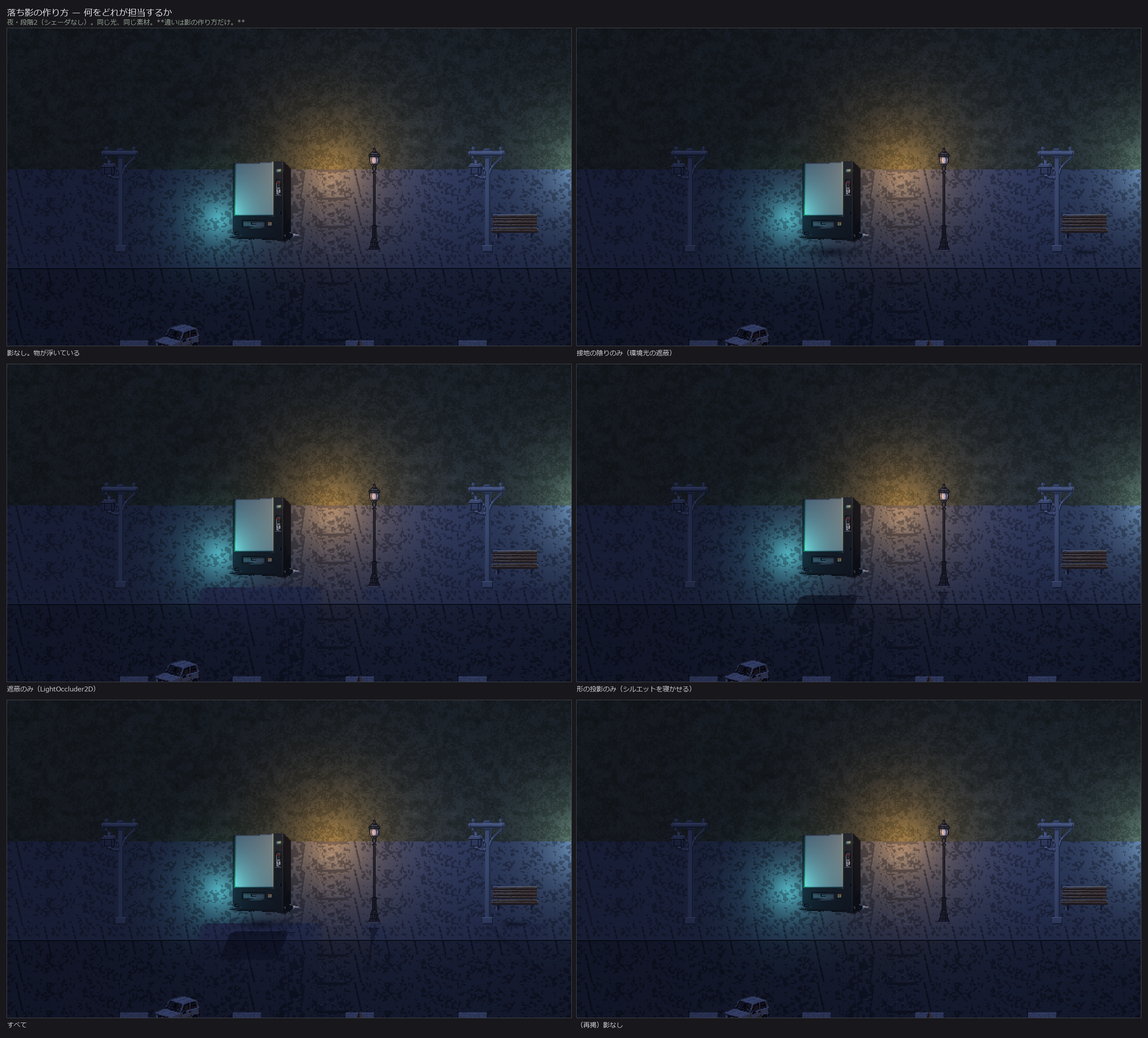
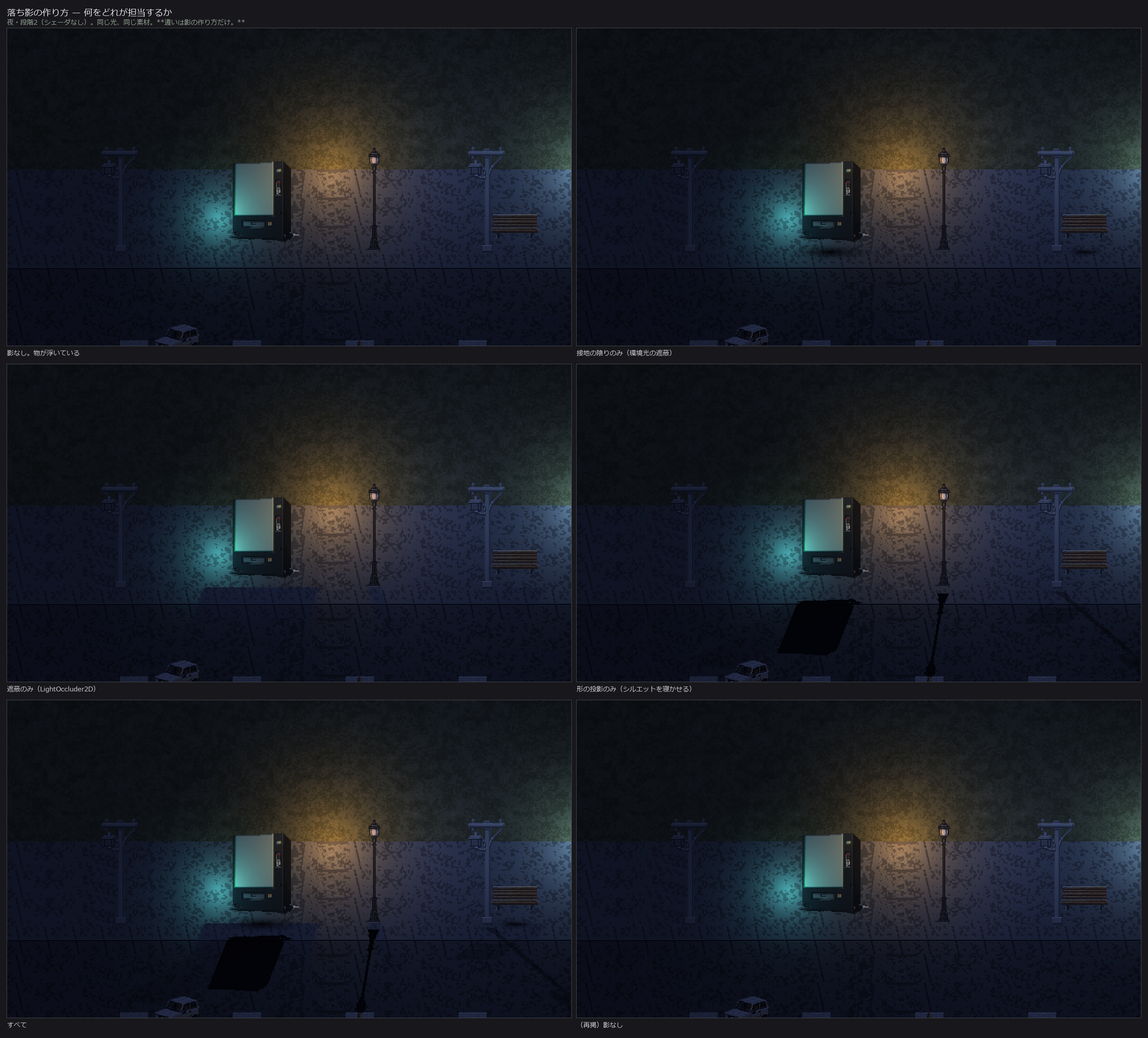
feat(iwato): 影の濃さを参考画像の実測値に合わせる (#21)
「影がまだ明確に弱い。『意図的に薄めた』という判断が間違いだ」という
指摘への対応。**測ったところ、指摘は正しかった。**

■ 参考画像の実測（tools/measure_shadow.py split）

路面の 影の芯 / 日向の芯:
  右上 0.134 / 中央 0.133 / 手前 0.115 / ぜんたい **0.120**

こちらは 0.37〜0.49 だった。**3〜4倍明るい。**
依頼者の目測は 0.15〜0.2 で、実際はそれよりさらに暗かった。

■ 測り方を間違えると、直したのに数字が動かない

最初は「帯ぜんたいの下位20% / 上位20%」で測ったが、下位20%には
**影ではなく「光が届いていないだけの場所」**が入る。環境光を下げても
比が動かなかった（0.391 → 0.342）。

**影を外した同じ絵を撮り、それを基準にする。** これで素直に動いた。
`--levels` が段階ごとに「影あり」と「影なし」を撮る。

  段階0（従来）  0.632（芯 0.502）
  段階1（中間）  0.421（芯 0.278）
  段階2（採用）  0.280（**芯 0.127。参考の 0.120 に一致**）

平均が 0.28 に留まるのは、判定に影の縁（半影）が入るため。

■ 変えたもの

  影の不透明度        0.50 → **0.97（ほぼ不透明）**
  影の階調（遠い端）  0.28 → **0.86（輪郭が硬い）**
  環境光              1.00 → **0.66**
  太陽の影の長さ      1.05〜1.20倍 → **1.45〜1.90倍**
  遮蔽の影のぼかし    3.0 → **0.5**

■ 「影が短い」という指摘は、測ると支持されなかった

影の帯の長さを画面幅に対する割合で測ると、従来ですでに参考画像と
同等かそれ以上だった（上位10% で 13% 対 9%）。**薄さと輪郭のぼやけを
「短さ」と読んでいた。** ただし長さも寄せたほうが締まるので伸ばした。

残る差は**影を落とす物そのもの**である。参考は建物、こちらは電柱と
街灯であり細い。光の設定ではなくフィールドの中身の違いである。

diff --git a/tools/measure_shadow.py b/tools/measure_shadow.py
@@ -1,0 +1,111 @@
+#!/usr/bin/env python3
+"""画面の影を**測る**。目測で決めない（PILOT_FINDINGS 第29節）。
+
+    # 1枚の絵の中で、暗い側と明るい側の明度比を測る（参考画像などに使う）
+    python tools/measure_shadow.py split IMAGE --box 560,60,1150,520
+
+    # 「影あり」と「影なし」の同じ絵を比べる（自分の画面に使う）
+    python tools/measure_shadow.py pair SHADOWED PLAIN --box 0,170,640,356
+
+**`split` と `pair` は測るものが違う。** 混同しないこと。
+
+`split` は「帯ぜんたいの下位20% / 上位20%」で測る。影を外した絵が
+手に入らない画像（他所の画面）にはこれしかない。**ただし下位20%には
+「影」ではなく「光が届いていないだけの場所」が入る。** 自分の画面に
+使うと、環境光を下げても比が動かず、直したかどうかが分からない。
+
+`pair` は**影を外した同じ絵**を基準に、暗くなった画素だけを影とみなす。
+自分の画面はこちらで測る。`godot_preview` の `--levels` が両方を撮る。
+
+参考画像は `refs/` にある。**API へは送らない。ここで読むだけである。**
+"""
+
+from __future__ import annotations
+
+import argparse
+import sys
+from pathlib import Path
+
+try:
+    from PIL import Image
+except ImportError:
+    sys.exit("Pillow が必要です: python -m pip install -r requirements.txt")
+
+#: 影とみなす明度の下がり幅。これ未満は縁のゆらぎとして捨てる。
+SHADOW_DROP = 10.0
+
+
+def lum(c) -> float:
+    return 0.2126 * c[0] + 0.7152 * c[1] + 0.0722 * c[2]
+
+
+def parse_box(text: str, image: Image.Image) -> tuple:
+    if not text:
+        return (0, 0, image.width, image.height)
+    x0, y0, x1, y1 = (int(v) for v in text.split(","))
+    return (x0, y0, x1, y1)
+
+
+def measure_split(path: Path, box: str) -> None:
+    im = Image.open(path).convert("RGB")
+    x0, y0, x1, y1 = parse_box(box, im)
+    vals = sorted(lum(c) for c in im.crop((x0, y0, x1, y1)).get_flattened_data())
+    n = len(vals)
+    dark = sum(vals[: n // 5]) / (n // 5)
+    light = sum(vals[-(n // 5):]) / (n // 5)
+    print("%s  %dx%d  範囲 %d,%d-%d,%d" % (path.name, im.width, im.height, x0, y0, x1, y1))
+    print("  影の芯（下位20%%）%.1f / 日向の芯（上位20%%）%.1f" % (dark, light))
+    print("  **明度比 %.3f**" % (dark / light))
+
+
+def measure_pair(shadowed: Path, plain: Path, box: str) -> None:
+    a = Image.open(shadowed).convert("RGB")
+    b = Image.open(plain).convert("RGB")
+    if a.size != b.size:
+        raise SystemExit("2枚の大きさが違います: %s / %s" % (a.size, b.size))
+    x0, y0, x1, y1 = parse_box(box, a)
+    sp = list(a.crop((x0, y0, x1, y1)).get_flattened_data())
+    bp = list(b.crop((x0, y0, x1, y1)).get_flattened_data())
+    inside, outside = [], []
+    for ca, cb in zip(sp, bp):
+        la, lb = lum(ca), lum(cb)
+        (inside if lb - la > SHADOW_DROP else outside).append(la)
+    if not inside:
+        print("影が見つかりません（2枚が同じか、範囲に影がありません）")
+        return
+    inside.sort()
+    half = max(1, len(inside) // 2)
+    core = sum(inside[:half]) / half
+    mi = sum(inside) / len(inside)
+    mo = sum(outside) / len(outside) if outside else 0.0
+    print("%s ← %s  範囲 %d,%d-%d,%d" % (shadowed.name, plain.name, x0, y0, x1, y1))
+    print("  影の中 %.1f（芯 %.1f） / 影の外 %.1f / 影の面積 %.0f%%"
+          % (mi, core, mo, 100 * len(inside) / len(sp)))
+    print("  **明度比 %.3f（芯で %.3f）**" % (mi / mo, core / mo))
+
+
+def build_parser() -> argparse.ArgumentParser:
+    parser = argparse.ArgumentParser(
+        prog="measure_shadow.py", description="画面の影の明度比を測る。")
+    sub = parser.add_subparsers(dest="mode", required=True)
+    s = sub.add_parser("split", help="1枚の絵の中で下位20%%と上位20%%を比べる。")
+    s.add_argument("image", type=Path)
+    s.add_argument("--box", default="", metavar="X0,Y0,X1,Y1")
+    q = sub.add_parser("pair", help="影ありと影なしの同じ絵を比べる。**自分の画面はこちら**")
+    q.add_argument("shadowed", type=Path)
+    q.add_argument("plain", type=Path)
+    q.add_argument("--box", default="", metavar="X0,Y0,X1,Y1")
+    return parser
+
+
+def main(argv=None) -> int:
+    args = build_parser().parse_args(argv)
+    if args.mode == "split":
+        measure_split(args.image, args.box)
+    else:
+        measure_pair(args.shadowed, args.plain, args.box)
+    return 0
+
+
+if __name__ == "__main__":
+    sys.exit(main())

diff --git a/godot_preview/README.md b/godot_preview/README.md
@@ -58,6 +58,7 @@ godot --path godot_preview
 godot --path godot_preview -- --auto      # 時間帯ごと
 godot --path godot_preview -- --stages    # 段階ごと
 godot --path godot_preview -- --shadows   # 影の作り方4通り
+godot --path godot_preview -- --levels    # 影の濃さ3段階＋影なしの基準（第29節）
 godot --path godot_preview -- --sweep     # Light2D.height の総当たり（第22節）
 ```
 
@@ -87,4 +88,7 @@ godot --path godot_preview -- --sweep     # Light2D.height の総当たり（第
   本来の設計（時間帯ごとにパレットを差し替える）はシェーダで行うもので、
   ここではやっていない。**色の出方は本番と一致しない。**
 - 地形は F01（国道沿い）を模した仮組みであり、**フィールドの正式な配置ではない。**
-- 影の濃さは**撮った画素を測って**決めた（PILOT_FINDINGS 第26節）。
+- 影の濃さは**撮った画素を測って**決めた（PILOT_FINDINGS 第26・29節）。
+  参考画像の実測値 0.120 に対し、採用した設定は**芯で 0.127**。
+  `--level=0..2` で3段階を切り替えられる（既定は 2）。
+  測り直すには `tools/measure_shadow.py` を使う。
